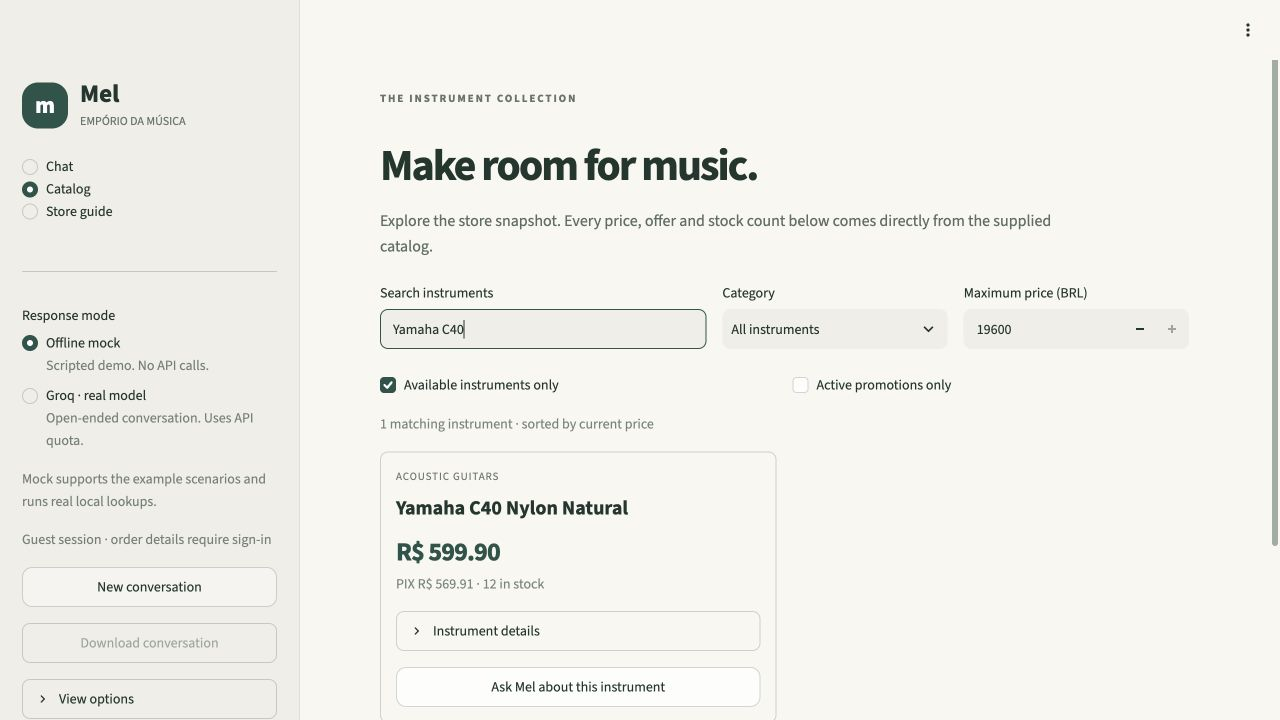
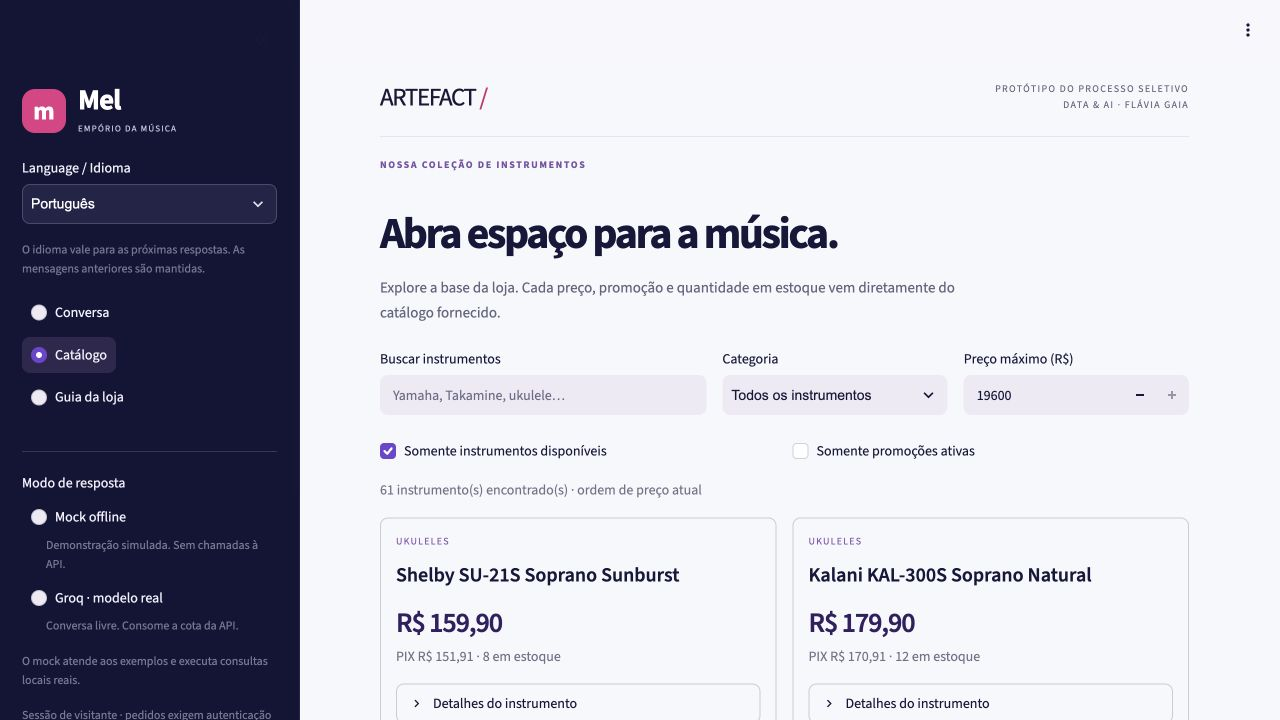
Refresh Streamlit design with Artefact-inspired visual identity

diff --git a/emporio/ui.css b/emporio/ui.css
@@ -1,33 +1,63 @@
 <style>
-:root { --mel-green: #245448; --mel-ink: #20372f; --mel-muted: #66756b; }
-.block-container { max-width: 1180px; padding-top: 4.6rem; padding-bottom: 4rem; }
-[data-testid="stSidebar"] { border-right: 1px solid #dedfd4; }
-[data-testid="stSidebar"] .block-container { padding-top: 1.5rem; }
-.brand { display:flex; align-items:center; gap:12px; margin: 4px 0 25px; }
-.brand-mark { display:grid; place-items:center; width:46px; height:46px; border-radius:16px;
-  background:var(--mel-green); color:white; font-weight:800; font-size:23px; }
-.brand-name { font-size:25px; font-weight:750; line-height:1.1; }
-.brand-caption { color:var(--mel-muted); font-size:12px; margin-top:4px; }
-.eyebrow { letter-spacing:.17em; color:#667466; font-size:11px; font-weight:750; margin-bottom:12px; }
-.hero-title { font-size:clamp(30px, 4vw, 49px); font-weight:750; letter-spacing:-.045em;
-  line-height:1.12; margin:0 0 13px; color:var(--mel-ink); }
-.hero-copy { color:#5d6e62; max-width:680px; font-size:16px; line-height:1.6; margin-bottom:22px; }
-.mode-pill { display:inline-flex; align-items:center; gap:8px; padding:7px 13px; border-radius:30px;
-  background:#e5ede3; color:#285044; font-size:12px; font-weight:650; margin-bottom:24px; }
-.mode-dot { width:6px; height:6px; background:#47745b; border-radius:50%; }
-.section-label { color:var(--mel-muted); font-size:12px; letter-spacing:.08em; font-weight:650;
-  margin:20px 0 12px; text-transform:uppercase; }
-.product-category { color:#6e796b; font-size:11px; letter-spacing:.08em; text-transform:uppercase; }
-.product-name { font-size:20px; font-weight:700; color:var(--mel-ink); line-height:1.3; margin:10px 0; }
-.product-price { font-size:26px; font-weight:750; letter-spacing:-.035em; color:var(--mel-green); }
-.product-original { color:#7c8076; font-size:13px; text-decoration:line-through; margin-right:10px; }
-.product-promo { color:#74622a; background:#f4ecd1; border-radius:12px; font-size:11px; padding:4px 8px; }
-.catalog-note { color:#73806e; font-size:12px; line-height:1.5; margin:12px 0; }
-[data-testid="stChatMessage"] { border:1px solid #e2e5da; background:#fffefa; border-radius:18px;
-  margin-bottom:14px; padding:18px; }
-[data-testid="stChatInput"] { border-radius:16px; }
-[data-testid="stButton"] button { border-radius:10px; }
-.app-footer { margin-top:30px; border-top:1px solid #dedfd4; padding-top:14px;
-  color:#788272; font-size:11px; }
-@media(max-width:700px) { .block-container { padding-top:4rem; } .hero-title { font-size:32px; } }
+:root { --mel-ink:#17183b; --mel-muted:#686b82; --mel-accent:#7045cf; --mel-border:#e4e4ef; }
+html, body, [data-testid="stApp"] { font-family:Arial,Helvetica,sans-serif; }
+[data-testid="stAppViewContainer"] { background:#f7f8fc; }
+.block-container { max-width:1250px; padding-top:3.8rem; padding-bottom:3rem; }
+[data-testid="stHeader"] { background:rgba(247,248,252,.94); }
+[data-testid="stSidebar"] { background:#141436; border-right:1px solid #25254b; color:#f6f5ff; }
+[data-testid="stSidebar"] [data-testid="stSidebarContent"] { padding-top:.6rem; }
+[data-testid="stSidebar"] h1, [data-testid="stSidebar"] p,
+[data-testid="stSidebar"] label, [data-testid="stSidebar"] [data-testid="stMarkdownContainer"],
+[data-testid="stSidebar"] summary { color:#f1effb; }
+[data-testid="stSidebar"] [data-testid="stCaptionContainer"] p { color:#bbb9d2; font-size:12px; line-height:1.6; }
+[data-testid="stSidebar"] hr { border-color:#363657; margin:1.2rem 0; }
+[data-testid="stSidebar"] [role="group"]:has(input[role="combobox"]), [data-testid="stSidebar"] [data-baseweb="select"] > div { background:#242448; border-color:#4b4a6c; color:white; }
+[data-testid="stSidebar"] input[role="combobox"], [data-testid="stSidebar"] [data-baseweb="select"] input { color:white; }
+[data-testid="stSidebar"] [role="group"] button svg, [data-testid="stSidebar"] [data-baseweb="select"] svg { fill:#e3dff6; }
+[data-testid="stSidebar"] [role="radiogroup"] { gap:6px; }
+[data-testid="stSidebar"] [role="radiogroup"] label { padding:7px 9px; border-radius:8px; }
+[data-testid="stSidebar"] [role="radiogroup"] label:has(input:checked) { background:#30284f; }
+[data-testid="stSidebar"] button { background:transparent; border-color:#595474; color:#f2efff; }
+[data-testid="stSidebar"] button:hover { background:#322b52; border-color:#bba0f3; color:white; }
+.brand { display:flex; align-items:center; gap:12px; margin:0 0 20px; }
+.brand-mark { display:grid; place-items:center; width:44px; height:44px; border-radius:13px; background:#e53885; color:white; font-weight:700; font-size:25px; }
+.brand-name { font-size:29px; font-weight:700; letter-spacing:-1px; line-height:1; color:white; }
+.brand-caption { color:#c6c2dd; font-size:9px; letter-spacing:.13em; margin-top:7px; }
+.case-header { display:flex; align-items:center; justify-content:space-between; gap:16px; padding:0 0 19px; margin-bottom:20px; border-bottom:1px solid var(--mel-border); }
+.case-wordmark { color:#191938; font-size:25px; letter-spacing:-1.3px; font-weight:400; }
+.case-wordmark span { color:#ce286d; }
+.case-label { color:#686780; font-size:10px; letter-spacing:.13em; text-align:right; text-transform:uppercase; }
+.hero-panel { position:relative; overflow:hidden; padding:24px 32px 22px; margin-bottom:20px; border-radius:16px; background:linear-gradient(118deg,#171441 0%,#332664 52%,#704073 100%); }
+.hero-panel::after { content:""; position:absolute; width:290px; height:290px; right:-118px; top:-42px; border:1px solid #ffffff35; border-radius:50%; box-shadow:0 0 0 23px #ffffff08,0 0 0 46px #ffffff0a,0 0 0 69px #ffffff08,0 0 0 92px #ffffff05; pointer-events:none; }
+.hero-panel .eyebrow { color:#dfc4fb; margin-bottom:10px; }
+.eyebrow { letter-spacing:.16em; color:#7952a7; font-size:10px; font-weight:700; margin-bottom:14px; }
+.hero-title { font-size:clamp(34px,4vw,53px); font-weight:500; letter-spacing:-.055em; line-height:1.08; margin:0 0 16px; color:var(--mel-ink); position:relative; z-index:1; }
+.hero-panel h1.hero-title { color:white; max-width:560px; font-size:clamp(32px,3.4vw,44px); font-weight:500; padding:0; margin:0 0 15px; font-family:Arial,Helvetica,sans-serif; }
+.hero-copy { color:#63657e; max-width:630px; font-size:15px; line-height:1.65; margin-bottom:22px; position:relative; z-index:1; }
+.hero-panel .hero-copy { color:#e0dbef; max-width:530px; margin-bottom:14px; font-size:14px; line-height:1.5; }
+.mode-pill { display:inline-flex; align-items:center; gap:8px; padding:7px 11px; border:1px solid #ffffff30; border-radius:5px; background:#ffffff0b; color:#f1eafb; font-size:11px; position:relative; z-index:1; }
+.mode-dot { width:6px; height:6px; background:#f580b0; border-radius:50%; }
+.section-label { color:#66617a; font-size:10px; letter-spacing:.14em; font-weight:700; margin:3px 0 13px; text-transform:uppercase; }
+.st-key-starter_actions [data-testid="stButton"] button { min-height:64px; justify-content:flex-start; padding:17px 19px; border:1px solid #e1deee; background:white; box-shadow:0 2px 4px #28205003; }
+.st-key-starter_actions [data-testid="stButton"] button:hover { border-color:#9c77df; background:#f5efff; transform:translateY(-2px); }
+.st-key-starter_actions [data-testid="stButton"] button p { color:#292247; font-size:14px; font-weight:600; text-align:left; }
+.st-key-starter_actions [data-testid="stIconMaterial"] { color:#9960d1; margin-right:10px; }
+[data-testid="stButton"] button, [data-testid="stDownloadButton"] button { border-radius:8px; transition:background .15s,border-color .15s,transform .15s; }
+[data-testid="stButton"] button:focus-visible { outline:3px solid #b894ed; outline-offset:3px; }
+[data-testid="stVerticalBlockBorderWrapper"] { border-radius:12px; }
+.product-category { color:#8755b2; font-size:10px; letter-spacing:.12em; text-transform:uppercase; }
+.product-name { font-size:20px; font-weight:600; color:var(--mel-ink); line-height:1.35; margin:12px 0; }
+.product-price { font-size:28px; font-weight:600; letter-spacing:-.04em; color:#332062; }
+.product-original { color:#818095; font-size:13px; text-decoration:line-through; margin-right:10px; }
+.product-promo { color:#a41d60; background:#fce8f1; border-radius:4px; font-size:11px; padding:4px 8px; }
+[data-testid="stChatMessage"] { border:1px solid #e3e0ed; background:white; border-radius:12px; margin-bottom:16px; padding:22px; }
+[data-testid="stChatMessage"]:has([data-testid="stChatMessageAvatarAssistant"]) { border-left:3px solid #9560d2; }
+[data-testid="stChatMessageAvatarAssistant"] { background:#ede5fa; color:#713da6; }
+[data-testid="stChatMessageAvatarUser"] { background:#f9e1ed; color:#aa2e68; }
+[data-testid="stChatInput"] { border-radius:12px; border:1px solid #c4b5dc; background:white; box-shadow:0 4px 20px #27213e08; }
+[data-testid="stBottomBlockContainer"], [data-testid="stBottom"] { background:#f7f8fc; }
+[data-testid="stExpander"] { border-radius:8px; }
+.app-footer { display:flex; flex-wrap:wrap; justify-content:space-between; gap:8px; margin-top:26px; border-top:1px solid var(--mel-border); padding-top:15px; color:#77758d; font-size:10px; line-height:1.6; }
+@media(max-width:700px) { .block-container { padding-top:3.7rem; } .hero-panel { padding:28px 23px 24px; } .hero-title { font-size:37px; } .hero-panel::after { right:-225px; } .case-label { font-size:9px; max-width:155px; } .case-wordmark { font-size:23px; } }
+@media(prefers-reduced-motion:reduce) { * { transition:none!important; } }
 </style>

diff --git a/emporio/ui.py b/emporio/ui.py
@@ -101,16 +101,17 @@ def sources(trace, technical=False):
 def render_chat(mode, settings, show_sources, technical):
     records = st.session_state.records
     if not records:
-        st.markdown(f'<div class="eyebrow">{t("YOUR NEXT CHAPTER STARTS WITH A NOTE")}</div><h1 class="hero-title">{t("Find your next sound.")}</h1>'
-                    f'<div class="hero-copy">{t("Hi, I’m Mel. Let’s find the right instrument, check a price, or work through a store question together.")}</div>', unsafe_allow_html=True)
-        mode_text = t('Offline mock · no API calls') if mode == 'mock' else t('Real model · Groq')
-        st.markdown(f'<div class="mode-pill"><span class="mode-dot"></span>{mode_text}</div>', unsafe_allow_html=True)
+        st.markdown(f'<div class="hero-panel"><div class="eyebrow">{t("YOUR NEXT CHAPTER STARTS WITH A NOTE")}</div><h1 class="hero-title">{t("Find your next sound.")}</h1>'
+                    f'<div class="hero-copy">{t("Hi, I’m Mel. Let’s find the right instrument, check a price, or work through a store question together.")}</div>'
+                    f'<div class="mode-pill"><span class="mode-dot"></span>{t("Offline mock · no API calls") if mode == "mock" else t("Real model · Groq")}</div></div>', unsafe_allow_html=True)
         st.markdown(f'<div class="section-label">{t("Start with a question")}</div>', unsafe_allow_html=True)
-        for row in range(2):
-            columns = st.columns(2)
-            for column, (label, question) in zip(columns, SUGGESTIONS[row * 2:row * 2 + 2]):
-                column.button(t(label), key='suggest_' + str(row) + label, on_click=queue_question,
-                              args=(t(question),), width='stretch')
+        with st.container(key='starter_actions'):
+            icons = ['search', 'payments', 'local_offer', 'assignment_return']
+            for row in range(2):
+                columns = st.columns(2)
+                for index, (column, (label, question)) in enumerate(zip(columns, SUGGESTIONS[row * 2:row * 2 + 2])):
+                    column.button(t(label), key='suggest_' + str(row) + label, on_click=queue_question,
+                                  args=(t(question),), icon=f':material/{icons[row * 2 + index]}:', width='stretch')
         st.caption(t('Prices and availability come from the supplied store snapshot. Responses follow your selected language; English is the evaluation default.'))
     else:
         st.subheader(t('Your conversation with Mel'))
@@ -253,10 +254,10 @@ def run_app():
     if 'records' not in st.session_state:
         st.session_state.records = []
     with st.sidebar:
-        st.selectbox('Language / Idioma', list(LANGUAGES), format_func=LANGUAGES.get, key='language', on_change=reset_catalog_page)
-        st.caption(t('Language changes apply to new replies. Existing messages are kept.'))
         st.markdown('<div class="brand"><div class="brand-mark">m</div><div><div class="brand-name">Mel</div>'
                     '<div class="brand-caption">EMPÓRIO DA MÚSICA</div></div></div>', unsafe_allow_html=True)
+        st.selectbox('Language / Idioma', list(LANGUAGES), format_func=LANGUAGES.get, key='language', on_change=reset_catalog_page)
+        st.caption(t('Language changes apply to new replies. Existing messages are kept.'))
         view = st.radio(t('Workspace'), ['Chat', 'Catalog', 'Store guide'], format_func=partial(translate, language=st.session_state.language), key='workspace', label_visibility='collapsed', on_change=reset_catalog_page)
         st.divider()
         mode_label = st.radio(t('Response mode'), ['Offline mock', 'Groq · real model'], format_func=partial(translate, language=st.session_state.language), key='response_mode',
@@ -281,10 +282,12 @@ def run_app():
             st.caption(t('Session-only history. The model sees the latest eight exchanges; the screen keeps up to 40 turns. Reloading or starting a new conversation clears the session.'))
             st.caption(t('The store and data are fictional. A demo customer ID is a server-side fixture, not production authentication. Keep a Groq account on its Free plan to use the free quota.'))
             st.link_button(t('View project on GitHub'), 'https://github.com/flaviagaia/emporio-musica-ai-agent')
+    st.markdown(f'<div class="case-header"><div class="case-wordmark">ARTEFACT<span> /</span></div>'
+                f'<div class="case-label">{t("Candidate prototype")}<br>DATA &amp; AI · FLÁVIA GAIA</div></div>', unsafe_allow_html=True)
     if view == 'Chat':
         render_chat(mode, settings, show_sources, technical)
     elif view == 'Catalog':
         render_catalog()
     else:
         render_guide()
-    st.markdown(f'<div class="app-footer">Empório da Música · {t("Your music starts here.")} &nbsp; | &nbsp; {t("Artefact AI Engineer case")}</div>', unsafe_allow_html=True)
+    st.markdown(f'<div class="app-footer">Empório da Música · {t("Your music starts here.")} &nbsp; | &nbsp; {t("Candidate prototype · Artefact case")}</div>', unsafe_allow_html=True)

diff --git a/emporio/i18n.py b/emporio/i18n.py
@@ -3,6 +3,8 @@ from decimal import Decimal
 
 LANGUAGES = {'en': 'English', 'pt': 'Português'}
 PT = {
+    'Candidate prototype': 'Protótipo do processo seletivo',
+    'Candidate prototype · Artefact case': 'Protótipo do processo seletivo · Case Artefact',
     'Workspace': 'Navegação', 'Chat': 'Conversa', 'Catalog': 'Catálogo', 'Store guide': 'Guia da loja',
     'Response mode': 'Modo de resposta', 'Offline mock': 'Mock offline', 'Groq · real model': 'Groq · modelo real',
     'Scripted demo. No API calls.': 'Demonstração simulada. Sem chamadas à API.',

diff --git a/README.md b/README.md
@@ -18,6 +18,8 @@ streamlit run streamlit_app.py
 
 Open **http://127.0.0.1:8510**. The app defaults to **Offline mock**, so opening it and browsing the catalog do not call a model API. Select **Groq · real model** in the sidebar for open-ended conversation using a server-configured key. Use **Language / Idioma** in the sidebar to choose **English** or **Português** for the interface and new replies, in both mock and Groq modes. English remains the evaluation default. Switching language keeps the existing conversation; earlier messages are not translated. Labels are translated locally without API calls. Original product descriptions and PDF evidence keep their source language.
 
+The visual design takes inspiration from [Artefact’s website](https://www.artefact.com/): a deep navy sidebar, violet/pink accents, a gradient hero and clear typography. The header identifies this as a candidate prototype. Both languages share the same styling.
+
 ![Streamlit home screen](docs/screenshots/home.jpg)
 
 The application includes:
